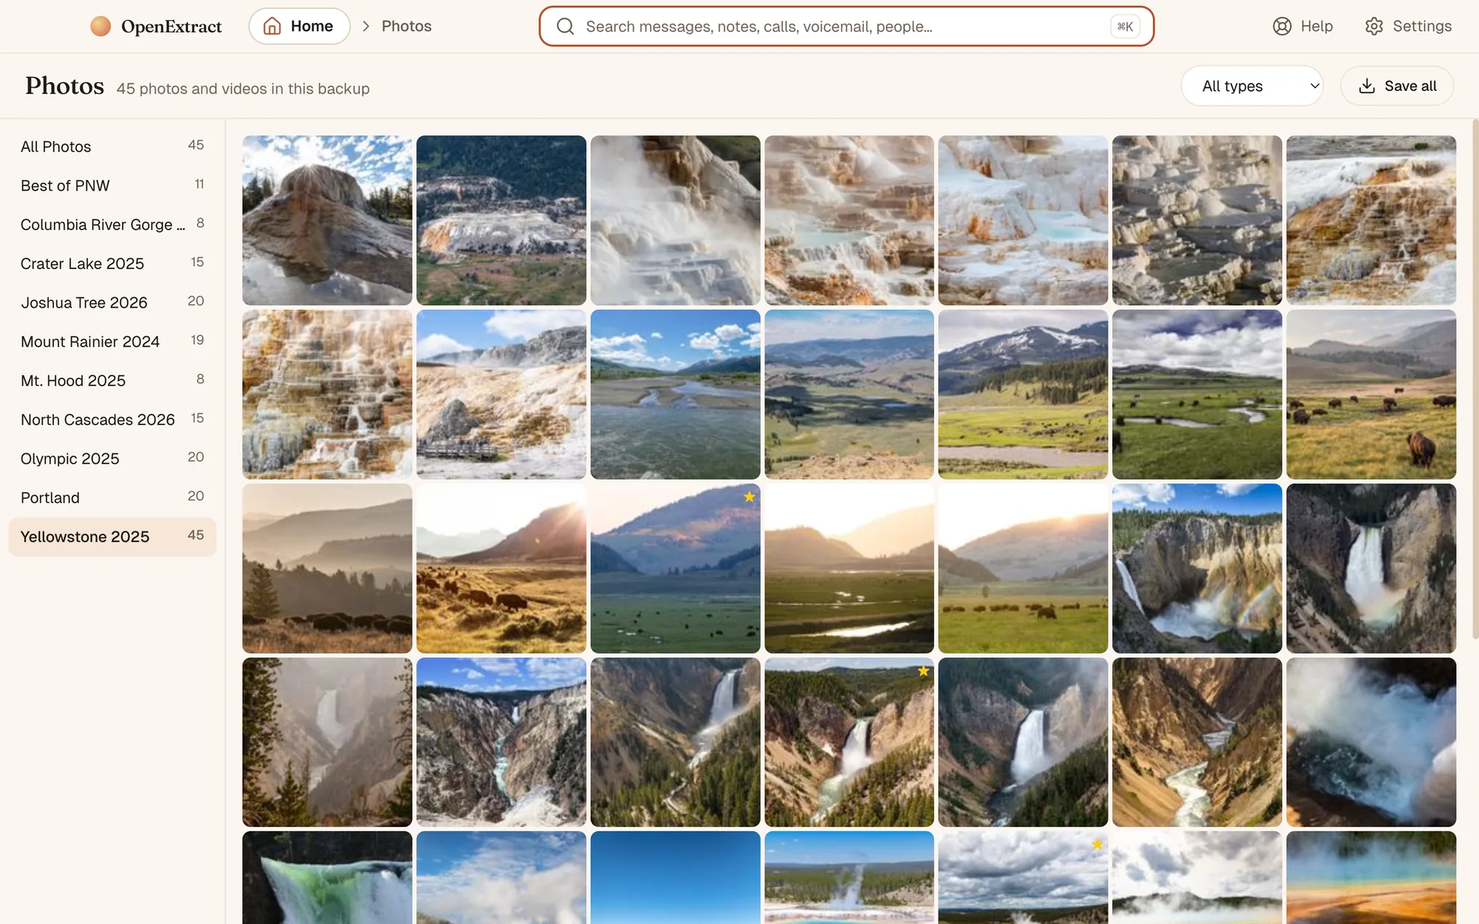
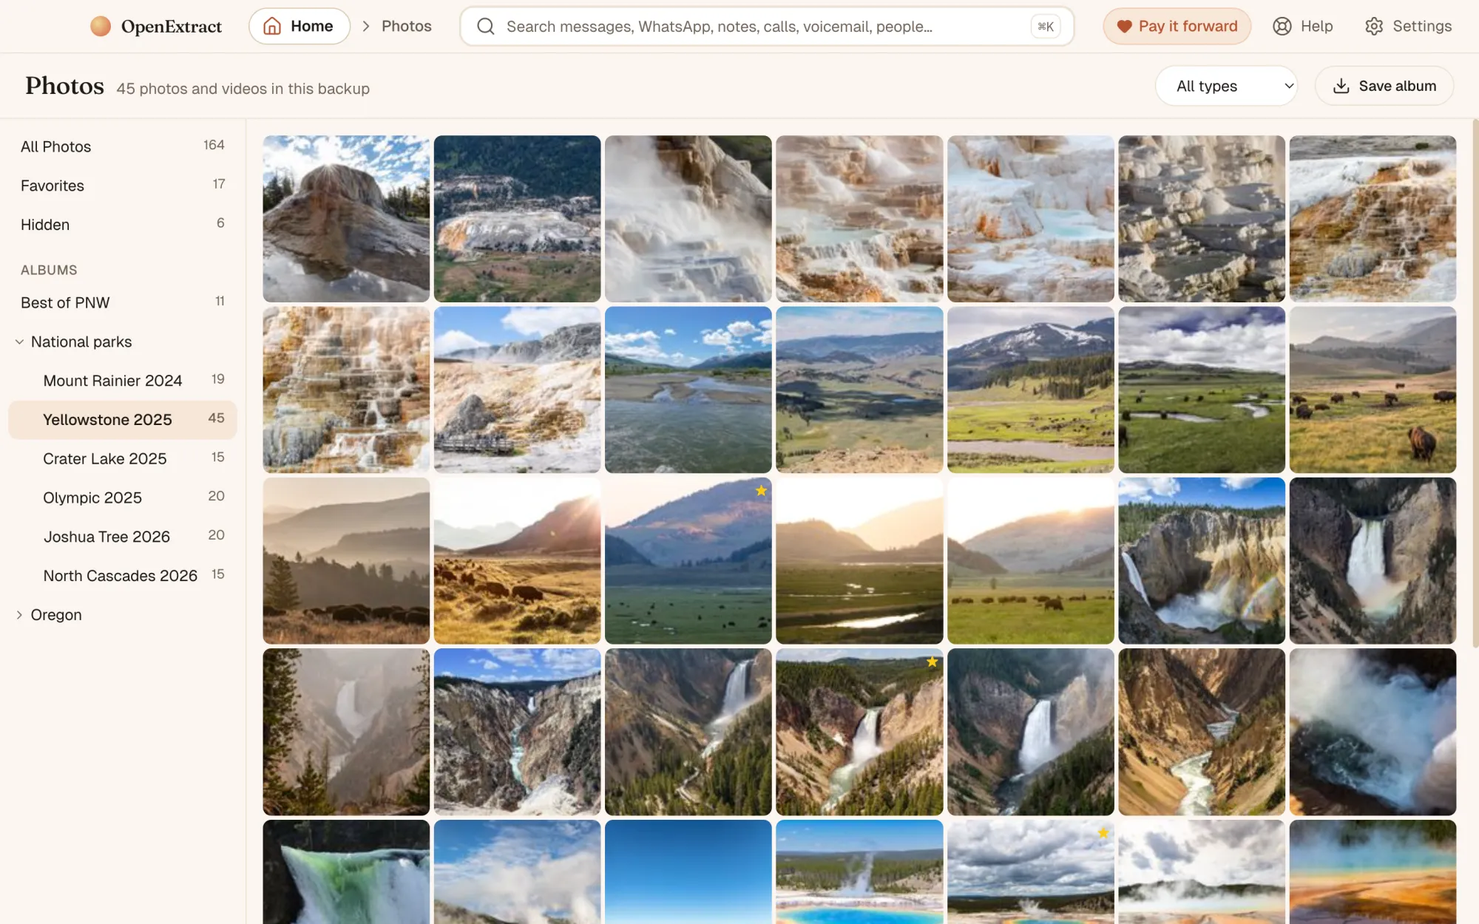
site: photos pages for 0.16.0 (albums, Favorites, Hidden, folders) (#281)
The photos guide said "Can I save one album? Not yet." 0.16.0 adds Save
album / Save favorites / Save hidden, albums inside the phone's folders,
and leaves hidden photos out of All Photos as the iPhone does (#266, #276).

- Photos guide: the new sidebar, saving one album, a Hidden photos section
  (hiding doesn't keep a photo out of a backup; encryption does), Recently
  Deleted as a limit, two new FAQ entries (JSON-LD matches the page).
- New Photos and album screenshots from a copy of the made-up Maren backup
  with two folders and six hidden photos; they replace the old ones on
  /screenshots, the README and the guide. The new home page keeps its own.
- Captions and feature lines on /screenshots, README, llms.txt, the backup
  viewer and Windows viewer pages, /guides and the export hub; sitemap
  dates.

diff --git a/website/static/use-cases/extract-photos-from-iphone-backup.html b/website/static/use-cases/extract-photos-from-iphone-backup.html
@@ -5,13 +5,13 @@
   <meta name="viewport" content="width=device-width, initial-scale=1.0" />
   <meta name="theme-color" content="#faf6f1" />
   <title>Extract photos from an iPhone backup, free — OpenExtract</title>
-  <meta name="description" content="Save every photo and video in an iPhone backup to your PC or Mac as the original files, in folders by month with their real dates. Free, open source." />
+  <meta name="description" content="Save the photos and videos in an iPhone backup to your PC or Mac as the original files: all of them, one album, your favorites or your hidden photos. Free." />
   <link rel="canonical" href="https://www.openextract.app/use-cases/extract-photos-from-iphone-backup" />
   <meta name="robots" content="index, follow, max-image-preview:large" />
   <meta property="og:type" content="article" />
   <meta property="og:url" content="https://www.openextract.app/use-cases/extract-photos-from-iphone-backup" />
   <meta property="og:title" content="Extract photos from an iPhone backup, free" />
-  <meta property="og:description" content="Open an iPhone backup and save its whole camera roll as the original files, sorted by month." />
+  <meta property="og:description" content="Open an iPhone backup and save its camera roll, one album or the hidden photos, as the original files." />
   <meta property="og:image" content="https://www.openextract.app/img/og-image.png" />
   <meta name="twitter:card" content="summary_large_image" />
   <link rel="icon" href="/favicon.ico" sizes="any" />
@@ -21,10 +21,10 @@
     "@context": "https://schema.org",
     "@type": "WebPage",
     "name": "Extract photos from an iPhone backup, free",
-    "description": "Save every photo and video in an iPhone backup to your PC or Mac as the original files, in folders by month with their real dates. Free, open source.",
+    "description": "Save the photos and videos in an iPhone backup to your PC or Mac as the original files: all of them, one album, your favorites or your hidden photos. Free.",
     "url": "https://www.openextract.app/use-cases/extract-photos-from-iphone-backup",
     "datePublished": "2026-11-12",
-    "dateModified": "2026-11-12",
+    "dateModified": "2026-11-16",
     "image": "https://www.openextract.app/img/og-image.png",
     "isPartOf": {
       "@type": "WebSite",
@@ -101,7 +101,15 @@
         "name": "Can I save one album?",
         "acceptedAnswer": {
           "@type": "Answer",
-          "text": "Not yet. You can browse each album in the app, but Save all saves every photo and video in the backup."
+          "text": "Yes. Click the album in the sidebar, then Save album, and only that album's photos and videos are saved, in folders by month like the rest. Favorites and Hidden work the same way, with Save favorites and Save hidden. Save all doesn't sort photos into albums, so to keep an album together, save it on its own into a new folder."
+        }
+      },
+      {
+        "@type": "Question",
+        "name": "Can I get my hidden photos out of a backup?",
+        "acceptedAnswer": {
+          "@type": "Answer",
+          "text": "Yes. Hiding a photo on the iPhone moves it to the Hidden album but keeps it on the phone, so it's in the backup like any other photo. OpenExtract lists those photos under Hidden and, as on the iPhone, leaves them out of All Photos and Favorites. Click Hidden, then Save hidden. Save to this computer, on the backup's home page, saves every photo and video, hidden ones included."
         }
       },
       {
@@ -157,9 +165,9 @@
   </nav>
 
   <header class="page-head">
-    <div class="page-head__eyebrow">Guide · 4 min</div>
+    <div class="page-head__eyebrow">Guide · 5 min</div>
     <h1>Extract photos<br />from an <span class="it">iPhone backup</span>.</h1>
-    <p class="page-head__lede">Open the backup in OpenExtract, a free app, and save every photo and video in it to your Windows PC or Mac in one go: the original files, in a folder for each month, each dated the day it was taken. No iCloud, no account, and an ordinary backup is enough.</p>
+    <p class="page-head__lede">Open the backup in OpenExtract, a free app, and save its photos and videos to your Windows PC or Mac: all of them in one go, or just one album, your favorites or your hidden photos. You get the original files, in a folder for each month, each dated the day it was taken. No iCloud, no account, and an ordinary backup is enough.</p>
   </header>
 
   <section class="prose">
@@ -167,7 +175,7 @@
       <p>An iPhone backup made by Finder, iTunes or the Apple Devices app holds the phone's camera roll, but you can't just open it: the files are renamed to long strings of letters and numbers, with no names, folders or dates you'd recognise. That matters most when the phone is lost, broken or wiped and the backup is all that's left, or when you'd rather not restore a whole phone just to get the pictures. Most of the tools that come up when you search for this are paid apps. OpenExtract does it for free, with no trial and no limit on how many photos you save, and it reads everything on your own computer.</p>
       <figure class="screen">
         <a class="screen__frame" href="/img/screens/photos-2000.webp">
-          <img src="/img/screens/photos-1000.webp" srcset="/img/screens/photos-1000.webp 1000w, /img/screens/photos-2000.webp 2000w" sizes="(max-width: 720px) calc(100vw - 48px), 720px" width="1000" height="625" loading="lazy" decoding="async" alt="The Photos screen in OpenExtract, opened on a made-up sample backup: a grid of landscape photos with favorites starred and the backup's albums listed alongside." />
+          <img src="/img/screens/photos-1000.webp" srcset="/img/screens/photos-1000.webp 1000w, /img/screens/photos-2000.webp 2000w" sizes="(max-width: 720px) calc(100vw - 48px), 720px" width="1000" height="625" loading="lazy" decoding="async" alt="The Photos screen in OpenExtract, opened on a made-up sample backup: All Photos, Favorites and Hidden at the top of the sidebar, then the albums, with the National parks folder open, beside a grid of landscape photos with favorites starred." />
         </a>
         <figcaption><strong>Photos, opened from a backup</strong>A made-up sample backup in OpenExtract. <a href="/screenshots">See every screen</a>.</figcaption>
       </figure>
@@ -194,15 +202,17 @@
       <div class="uc-step__num" style="color: var(--sage);">03</div>
       <div>
         <h2>Look through the photos</h2>
-        <p>Click <strong>Photos</strong> on the backup's home page. The grid shows every photo and video in the backup, with favorites starred and the phone's albums listed alongside. Click a photo to see it full size, or use the menu at the top to show only photos, videos, Live Photos or screenshots.</p>
+        <p>Click <strong>Photos</strong> on the backup's home page. The sidebar is laid out as on the iPhone: <strong>All Photos</strong>, <strong>Favorites</strong> and <strong>Hidden</strong>, then your albums, inside the folders you made and in the same order. Click a folder to open it. All Photos shows every photo and video in the backup except the ones you hid, which are under Hidden, as on the phone; favorites are starred.</p>
+        <p>Click a photo to see it full size, or use the menu at the top to show only photos, videos, Live Photos or screenshots.</p>
       </div>
     </div>
     <div class="uc-step">
       <div class="uc-step__num" style="color: var(--plum);">04</div>
       <div>
-        <h2>Save them all</h2>
-        <p>Click <strong>Save all</strong> and choose a folder. OpenExtract copies every photo and video in the backup into it, in a folder for each year and month (<code>2025/07</code>, <code>2025/08</code> and so on), and shows how far it has got: "Saving 1,234 of 5,678 photos and videos…". A big library takes a while, especially from an encrypted backup. When it's done, it says how many were saved, and how many are only in iCloud.</p>
-        <p>The same save is under <strong>Save to this computer</strong> on the backup's home page, next to messages, contacts and the rest; from there the photos go into a <code>Photos</code> folder.</p>
+        <h2>Save them all, or one album</h2>
+        <p>With All Photos selected, click <strong>Save all</strong> and choose a folder. OpenExtract copies the photos and videos into it, in a folder for each year and month (<code>2025/07</code>, <code>2025/08</code> and so on), and shows how far it has got: "Saving 1,234 of 5,678 photos and videos…". A big library takes a while, especially from an encrypted backup. When it's done, it says how many were saved, and how many are only in iCloud.</p>
+        <p>With an album, Favorites or Hidden selected, the button says <strong>Save album</strong>, <strong>Save favorites</strong> or <strong>Save hidden</strong> instead, and saves only those photos.</p>
+        <p>To save every photo and video in the backup, hidden ones included, use <strong>Save to this computer</strong> on the backup's home page, next to messages, contacts and the rest. It says how many of them are hidden, and the photos go into a <code>Photos</code> folder.</p>
       </div>
     </div>
     <div class="uc-step">
@@ -217,11 +227,22 @@
 
   <section class="prose">
     <div class="prose__inner">
+      <h2>One album, your favorites or your hidden photos</h2>
+      <p>Every album in the sidebar can be saved on its own. Click it, then <strong>Save album</strong>: only that album's photos and videos are saved, sorted by month like the rest. Save all doesn't sort photos into albums, so if you want an album kept together, save it on its own into a new folder. Favorites and Hidden work the same way.</p>
+      <figure class="screen">
+        <a class="screen__frame" href="/img/screens/album-2000.webp">
+          <img src="/img/screens/album-1000.webp" srcset="/img/screens/album-1000.webp 1000w, /img/screens/album-2000.webp 2000w" sizes="(max-width: 720px) calc(100vw - 48px), 720px" width="1000" height="625" loading="lazy" decoding="async" alt="The Yellowstone 2025 album, inside the National parks folder, open in OpenExtract on a made-up sample backup: 45 photos of hot springs, bison and waterfalls, with Save album at the top." />
+        </a>
+        <figcaption><strong>One album, ready to save</strong>Save album saves only the 45 photos on screen.</figcaption>
+      </figure>
+      <h2 id="hidden-photos">Hidden photos</h2>
+      <p>Hiding a photo on an iPhone takes it out of your library and puts it in the Hidden album, but the photo stays on the phone, so it's in the backup like any other. OpenExtract lists those photos under <strong>Hidden</strong>; click it, then <strong>Save hidden</strong>, to save just them. As on the iPhone, they're left out of All Photos and Favorites, and out of the photo counts on the home page, the Timeline and the Year view.</p>
+      <p>It also means hidden isn't private once there's a backup: anyone who can open an ordinary backup on that computer can see those photos. Turning on <strong>Encrypt local backup</strong> in Finder, iTunes or the Apple Devices app makes backups that need their password to open. <a href="/blog/encrypted-backups-are-better">Why encrypted backups are better</a>.</p>
       <h2>What it can't do</h2>
       <ul>
         <li><strong>Photos that are only in iCloud.</strong> With iCloud Photos on, and especially with Optimize iPhone Storage, many full-size photos aren't on the phone, so they aren't in its backup. OpenExtract says how many; download those from iCloud instead.</li>
         <li><strong>The moving part of Live Photos.</strong> A Live Photo is saved as its still photo, without the short video.</li>
-        <li><strong>One album at a time.</strong> You can browse albums, but Save all saves the whole backup.</li>
+        <li><strong>Recently Deleted.</strong> Photos in the Recently Deleted album aren't shown or saved.</li>
         <li><strong>It only has what the backup has.</strong> Photos taken after the backup was made aren't in it. Make a new backup first if you want today's camera roll.</li>
         <li><strong>No iCloud backups.</strong> It works from a backup on your computer, not from iCloud or an iCloud backup.</li>
       </ul>
@@ -230,7 +251,8 @@
       <p><strong>Why are some of my photos missing?</strong> With iCloud Photos on, and especially with Optimize iPhone Storage, many full-size photos live only in iCloud, so the iPhone&#x27;s backup doesn&#x27;t have them. OpenExtract counts only the photos that are in the backup and says how many more are only in iCloud. Those you download from iCloud instead.</p>
       <p><strong>Are the photos the original quality?</strong> Yes. OpenExtract copies the files as they are in the backup, so photos keep their format, resolution and EXIF details such as the camera and, where the phone recorded it, the place. HEIC photos stay HEIC.</p>
       <p><strong>Will the dates be right?</strong> Yes. The photos go into a folder for each month (for example 2025/07), and every saved file gets the date it was taken as its file date, so Finder, File Explorer and photo apps sort them in the order you took them.</p>
-      <p><strong>Can I save one album?</strong> Not yet. You can browse each album in the app, but Save all saves every photo and video in the backup.</p>
+      <p><strong>Can I save one album?</strong> Yes. Click the album in the sidebar, then Save album, and only that album&#x27;s photos and videos are saved, in folders by month like the rest. Favorites and Hidden work the same way, with Save favorites and Save hidden. Save all doesn&#x27;t sort photos into albums, so to keep an album together, save it on its own into a new folder.</p>
+      <p><strong>Can I get my hidden photos out of a backup?</strong> Yes. Hiding a photo on the iPhone moves it to the Hidden album but keeps it on the phone, so it&#x27;s in the backup like any other photo. OpenExtract lists those photos under Hidden and, as on the iPhone, leaves them out of All Photos and Favorites. Click Hidden, then Save hidden. Save to this computer, on the backup&#x27;s home page, saves every photo and video, hidden ones included.</p>
       <p><strong>Does it work without iCloud?</strong> Yes. OpenExtract reads a backup saved on your own Mac or PC, so you don&#x27;t need iCloud, an Apple ID sign-in or the phone itself once the backup exists. It can&#x27;t read an iCloud backup.</p>
       <p><strong>Does anything get uploaded?</strong> No. OpenExtract reads the backup on your own computer and doesn&#x27;t send it anywhere. It goes online only when you let it: to check for a new version, if you allow it (you can turn that off in Settings); to send a problem report or a thank-you, when you click Send; and on Windows, to install Apple&#x27;s free Apple Devices app from Microsoft, if you ask it to, for backing up an iPhone. Nothing from inside your backup goes with any of them.</p>
       <p><strong>Is it really free?</strong> Yes. OpenExtract is open source under the MIT license, with no paid tier, no account and no strings attached. <a href="https://github.com/charleswest775/openextract">The code is on GitHub</a>.</p>

diff --git a/website/static/screenshots.html b/website/static/screenshots.html
@@ -113,16 +113,16 @@
 
     <figure class="screen">
       <a class="screen__frame" href="/img/screens/photos-2000.webp">
-        <img src="/img/screens/photos-1000.webp" srcset="/img/screens/photos-1000.webp 1000w, /img/screens/photos-2000.webp 2000w" sizes="(max-width: 720px) calc(100vw - 48px), 540px" width="1000" height="625" loading="lazy" decoding="async" alt="The Photos screen: a grid of landscape photos with favorites starred and the backup's albums listed alongside." />
+        <img src="/img/screens/photos-1000.webp" srcset="/img/screens/photos-1000.webp 1000w, /img/screens/photos-2000.webp 2000w" sizes="(max-width: 720px) calc(100vw - 48px), 540px" width="1000" height="625" loading="lazy" decoding="async" alt="The Photos screen: All Photos, Favorites and Hidden at the top of the sidebar, then the albums, with the National parks folder open, beside a grid of landscape photos with favorites starred." />
       </a>
-      <figcaption><strong>Photos</strong>The whole camera roll, with favorites starred.</figcaption>
+      <figcaption><strong>Photos</strong>The whole camera roll, with Favorites, Hidden and your albums in the folders you made.</figcaption>
     </figure>
 
     <figure class="screen">
       <a class="screen__frame" href="/img/screens/album-2000.webp">
-        <img src="/img/screens/album-1000.webp" srcset="/img/screens/album-1000.webp 1000w, /img/screens/album-2000.webp 2000w" sizes="(max-width: 720px) calc(100vw - 48px), 540px" width="1000" height="625" loading="lazy" decoding="async" alt="The Yellowstone 2025 album open, showing 45 photos of hot springs, bison and waterfalls." />
+        <img src="/img/screens/album-1000.webp" srcset="/img/screens/album-1000.webp 1000w, /img/screens/album-2000.webp 2000w" sizes="(max-width: 720px) calc(100vw - 48px), 540px" width="1000" height="625" loading="lazy" decoding="async" alt="The Yellowstone 2025 album, inside the National parks folder, open with Save album at the top: 45 photos of hot springs, bison and waterfalls." />
       </a>
-      <figcaption><strong>Albums</strong>The albums you made on your phone, kept as they were.</figcaption>
+      <figcaption><strong>Albums</strong>Each album in the folder you made for it. Save album saves just the one on screen.</figcaption>
     </figure>
 
     <figure class="screen">

diff --git a/website/static/use-cases/view-iphone-backup-on-windows.html b/website/static/use-cases/view-iphone-backup-on-windows.html
@@ -24,7 +24,7 @@
     "description": "Where Windows keeps iPhone backups from iTunes or Apple Devices, and how to open one and read it with OpenExtract, a free viewer for Windows 10 and 11.",
     "url": "https://www.openextract.app/use-cases/view-iphone-backup-on-windows",
     "datePublished": "2026-11-03",
-    "dateModified": "2026-11-12",
+    "dateModified": "2026-11-16",
     "image": "https://www.openextract.app/img/og-image.png",
     "isPartOf": {
       "@type": "WebSite",
@@ -229,7 +229,7 @@
       <ul>
         <li><strong>Messages</strong>: every iMessage, SMS and group chat, with the photos sent in them. You can search them too.</li>
         <li><strong>WhatsApp</strong>: chats, groups and broadcast lists, with their photos, voice messages and calls, if WhatsApp was on the phone. Here's <a href="/use-cases/export-whatsapp-chats-from-iphone-backup">how to export WhatsApp chats</a>.</li>
-        <li><strong>Photos</strong>: the camera roll and the albums made on the phone.</li>
+        <li><strong>Photos</strong>: the camera roll, Favorites, Hidden and the albums made on the phone, in their folders. Here's <a href="/use-cases/extract-photos-from-iphone-backup">how to save photos from a backup</a>.</li>
         <li><strong>Contacts, calls and notes</strong>: the address book, the call log including FaceTime, and Apple Notes.</li>
         <li><strong>Voicemail</strong>: saved voicemails you can play and save.</li>
         <li><strong>Podcasts</strong>: the shows followed in Apple Podcasts and every episode played. Here's <a href="/use-cases/export-podcasts-from-iphone-backup">how to move them to another podcast app</a>.</li>

diff --git a/website/static/use-cases/free-iphone-backup-viewer.html b/website/static/use-cases/free-iphone-backup-viewer.html
@@ -24,7 +24,7 @@
     "description": "Open an iPhone backup and read the messages, photos, contacts, calls, notes and voicemails inside. Free and open source, no export caps, nothing uploaded.",
     "url": "https://www.openextract.app/use-cases/free-iphone-backup-viewer",
     "datePublished": "2026-11-02",
-    "dateModified": "2026-11-12",
+    "dateModified": "2026-11-16",
     "image": "https://www.openextract.app/img/og-image.png",
     "isPartOf": { "@type": "WebSite", "name": "OpenExtract", "url": "https://www.openextract.app/" },
     "publisher": {
@@ -97,7 +97,7 @@
       <ul>
         <li><strong>Messages.</strong> iMessage and SMS conversations, group chats labeled by who said what, and the photos sent in them.</li>
         <li><strong>WhatsApp.</strong> Chats and groups with their photos, voice messages, replies and calls, if WhatsApp was on the phone.</li>
-        <li><strong>Photos and videos.</strong> The camera roll, with favorites starred and the albums made on the phone.</li>
+        <li><strong>Photos and videos.</strong> The camera roll, with Favorites, Hidden and the albums made on the phone, in their folders.</li>
         <li><strong>Contacts.</strong> The address book, with names, companies, numbers and emails.</li>
         <li><strong>Call history.</strong> Every call with its date, length and direction, including FaceTime.</li>
         <li><strong>Notes.</strong> Apple Notes, ready to read.</li>

diff --git a/website/static/use-cases/export-iphone-data.html b/website/static/use-cases/export-iphone-data.html
@@ -24,7 +24,7 @@
     "description": "Export messages, photos, contacts, call history, voicemails, and more from any iPhone backup. Free, open source, runs on your own computer.",
     "url": "https://www.openextract.app/use-cases/export-iphone-data",
     "datePublished": "2026-04-24",
-    "dateModified": "2026-11-14",
+    "dateModified": "2026-11-16",
     "image": "https://www.openextract.app/img/og-image.png",
     "isPartOf": { "@type": "WebSite", "name": "OpenExtract", "url": "https://www.openextract.app/" },
     "publisher": {
@@ -102,7 +102,7 @@
       <a class="uc-pick" href="/use-cases/extract-photos-from-iphone-backup">
         <div class="uc-pick__icon" style="background: var(--sage-22);">📷</div>
         <div class="uc-pick__title">Photos &amp; videos</div>
-        <div class="uc-pick__desc">Original files with EXIF, dates, and locations intact.</div>
+        <div class="uc-pick__desc">Original files with EXIF, dates, and locations intact. All of them, or one album.</div>
         <div class="uc-pick__cta uc-pick__cta--sage">Guide →</div>
       </a>
       <div class="uc-pick">

diff --git a/website/static/guides.html b/website/static/guides.html
@@ -158,9 +158,9 @@
         <div class="blog-post-card__cta blog-post-card__cta--guide">Read →</div>
       </a>
       <a class="blog-post-card" href="/use-cases/extract-photos-from-iphone-backup">
-        <div class="blog-featured__meta"><span class="blog-cat blog-cat--guide">Guide</span><span class="blog-date">4 min</span></div>
+        <div class="blog-featured__meta"><span class="blog-cat blog-cat--guide">Guide</span><span class="blog-date">5 min</span></div>
         <h3>Extract photos from an iPhone backup</h3>
-        <p>Save the whole camera roll as the original files, in folders by month with their real dates.</p>
+        <p>Save the camera roll, one album or your hidden photos as the original files, in folders by month.</p>
         <div class="blog-post-card__cta blog-post-card__cta--guide">Read →</div>
       </a>
       <a class="blog-post-card" href="/use-cases/export-iphone-contacts">

diff --git a/README.md b/README.md
@@ -85,12 +85,12 @@ These use a made-up test backup, so none of the people or messages are real. Cli
   </tr>
   <tr>
     <td width="50%" valign="top">
-      <a href="website/static/img/screens/photos-2000.webp"><img src="website/static/img/screens/photos-1000.webp" width="100%" alt="The Photos screen: a grid of landscape photos with favorites starred and the backup's albums listed alongside."></a>
-      <br><b>Photos</b>: the whole camera roll, with favorites starred.
+      <a href="website/static/img/screens/photos-2000.webp"><img src="website/static/img/screens/photos-1000.webp" width="100%" alt="The Photos screen: All Photos, Favorites and Hidden at the top of the sidebar, then the albums, with the National parks folder open, beside a grid of landscape photos."></a>
+      <br><b>Photos</b>: the whole camera roll, with Favorites, Hidden and your albums in the folders you made.
     </td>
     <td width="50%" valign="top">
-      <a href="website/static/img/screens/album-2000.webp"><img src="website/static/img/screens/album-1000.webp" width="100%" alt="An album open, showing photos of hot springs, bison and waterfalls."></a>
-      <br><b>Albums</b>: the albums made on the phone, kept as they were.
+      <a href="website/static/img/screens/album-2000.webp"><img src="website/static/img/screens/album-1000.webp" width="100%" alt="An album inside a folder, open with Save album at the top: photos of hot springs, bison and waterfalls."></a>
+      <br><b>Albums</b>: each album in the folder you made for it; Save album saves just that one.
     </td>
   </tr>
   <tr>
